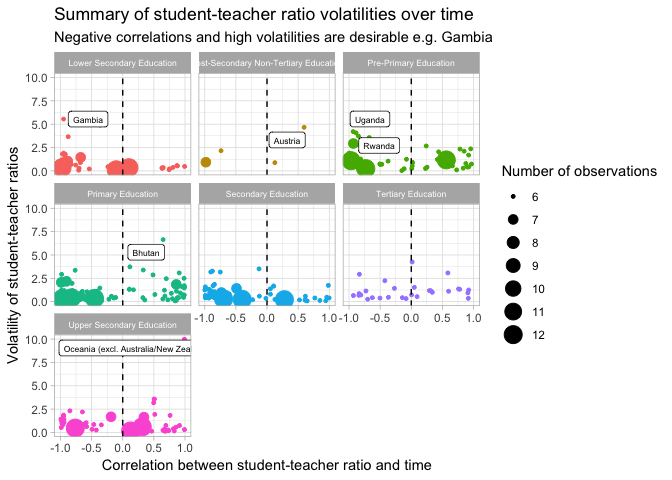
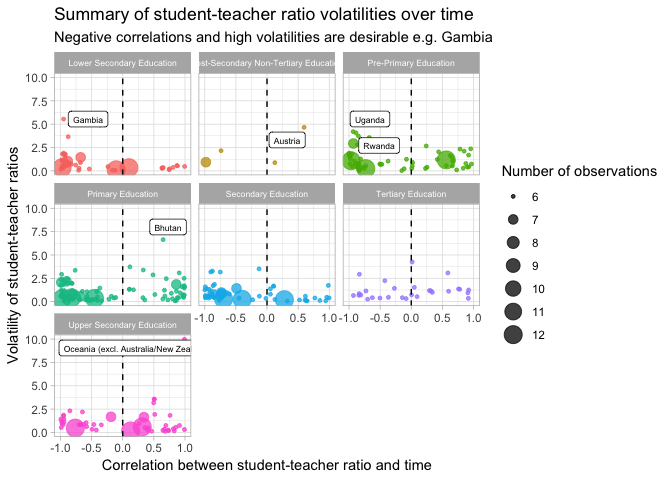
Final draft of the student-teacher ratio analysis.

diff --git a/Teacher-Student Analysis/teacher-student-analysis.md b/Teacher-Student Analysis/teacher-student-analysis.md
@@ -6,15 +6,18 @@ Johnny Breen
 Introduction
 ============
 
-In this segment we perform a brief analysis of data on student-teacher ratios across countries worldwide.
+In this segment we perform a brief analysis of data on student-teacher ratios across countries worldwide - the data is from the [tidytuesday](https://github.com/rfordatascience/tidytuesday/blob/master/data/2019/2019-05-07/readme.md) segment on github.
+
+Limited by time constraints and actuarial exams, this is a relatively short post; however, it showcases some of the functional tools you can use in `purrr` to make your code more powerful.
 
 Data import
 ===========
 
-Let's read in the data from the github repo:
+Let's first read in the data from the github repo:
 
 ``` r
 library(tidyverse)
+library(ggrepel)
 theme_set(theme_light())
 # we use 'ts' to refer to 'teacher-student'
 ts_ratio_raw <- readr::read_csv("https://raw.githubusercontent.com/rfordatascience/tidytuesday/master/data/2019/2019-05-07/student_teacher_ratio.csv")
@@ -40,7 +43,7 @@ ts_ratio_raw
 Exploratory data analysis
 =========================
 
-First, let's have a little look at how many countries we are working with:
+First, let's have a little look at how many countries are contained in the dataset:
 
 ``` r
 ts_ratio_raw %>%
@@ -63,7 +66,7 @@ ts_ratio_raw %>%
     ## 10 Mexico                                        39
     ## # … with 222 more rows
 
-We have 232 'countries' represented - although as you can see some of these are not countries, for example 'World'. There's a bit too many values to represent on a graph but we can see that there is a wide variety of countries here.
+We have 232 'countries' represented - although as you can see some of these are not countries, for example 'World'.
 
 Next, let's have a look at the representation of different education levels:
 
@@ -79,9 +82,9 @@ ts_ratio_raw %>%
 
 ![](teacher-student-analysis_files/figure-markdown_github/unnamed-chunk-3-1.png)
 
-There appears to be a fairly even distribution of different education levels.
+There appears to be a fairly even distribution of different education levels which will be useful if we plan to use this variable as a graphical facetting feature.
 
-Let's have a little look at how the teacher-student ratios correlate (on a linear basis) with time. This will tell us which countries are showing the most consistent changes (good or bad) over time:
+Let's have a little look at how the teacher-student ratios correlate (on a linear basis) with time. This will tell us which countries are showing the most consistent changes (good or bad) over time - to do this, we fit a series of linear models to each country in the dataset using `map_*()` functions from the package `purrr`:
 
 ``` r
 fit_mod <- function(df, ord = 1) {
@@ -98,7 +101,7 @@ ts_ratio_rsq <- ts_ratio_raw %>%
          linear_mod_nobs = map_int(data, ~ nrow(.))) %>%
   arrange(desc(linear_mod_rsq))
 
-# top 15 r-squared
+# top 15 r-squared values
 ts_ratio_rsq %>%
   mutate(country = fct_reorder(country, linear_mod_rsq)) %>%
   top_n(15, linear_mod_rsq) %>%
@@ -141,7 +144,7 @@ Based on this, Hong Kong appears to be demonstrating a fairly consistent change 
 
 It is also key to note that the number of observations here does not necessarily reflect the number of years available because some countries have data on a greater number of education levels than others but as at the same year (for instance, primary and secondary education figures in 2012).
 
-We can improve on this. Perhaps a better way to represent the data above would be to plot the volatility of student-teacher ratios on the y axis and ratio-year correlations on the x axis. This gives way to a multi-classification of different countries - for instance, a country with a highly negative ratio-year correlation and a high volatility reflects rapid improvement (remember, we want the ratios to *decrease* over time so that teachers have less students to cater to):
+Perhaps a better way to represent the data above would be to plot the volatility of student-teacher ratios on the y axis and ratio-year correlations on the x axis. This gives way to a multi-classification of different countries - for instance, a country with a highly negative ratio-year correlation and a high volatility reflects rapid improvement (remember, ratios which *decrease* over time represent increasingly smaller student-teacher ratios so that teachers have less students to cater to):
 
 ``` r
 ts_ratio_corrs <- ts_ratio_raw %>%
@@ -150,11 +153,10 @@ ts_ratio_corrs <- ts_ratio_raw %>%
          volatility = map_dbl(data, ~ sd(.$student_ratio, na.rm = TRUE)),
          nobs = map_int(data, ~ nrow(.)))
 
-library(ggrepel)
 ts_ratio_corrs %>%
   filter(nobs > 5, !indicator %in% c("World")) %>% 
   ggplot(aes(x = linear_corr, y = volatility)) +
-  geom_point(aes(size = nobs, colour = indicator)) +
+  geom_point(aes(size = nobs, colour = indicator), alpha = 0.75) +
   geom_vline(xintercept = 0, linetype = "dashed") +
   geom_label_repel(data = . %>% filter(abs(linear_corr) > 0.5, volatility > 4.0),
              aes(label = country), size = 2.25) +
@@ -171,38 +173,48 @@ ts_ratio_corrs %>%
 
 ![](teacher-student-analysis_files/figure-markdown_github/unnamed-chunk-6-1.png)
 
-How is this ratio affected by government spending?
-==================================================
-
-One approach here is to extract all of the necessary covariates associated with student-teacher ratios and investigate which of them are statistically significant:
+Each point in the series of plots above represents a different country. I've higlighted countries which have a suitably high combination of high correlation and volaility. Notice how, for instance, Gambia has a relatively high volatility score as well as a highly negative correlation, suggesting that it is making more rapid improvements than other countries in the area of lower secondary education. This is unsurprisingly backed up by the underlying data:
 
 ``` r
-# read in government spending data - downloaded from the relevant source online
-ts_spend_raw <- read_csv("EDULIT_DS_19052019035546163.csv")
+ts_ratio_raw %>%
+  filter(country == "Gambia", indicator == "Lower Secondary Education") %>%
+  select(education_category = indicator, country, year, student_ratio)
 ```
 
-    ## Parsed with column specification:
-    ## cols(
-    ##   EDULIT_IND = col_character(),
-    ##   Indicator = col_character(),
-    ##   LOCATION = col_character(),
-    ##   Country = col_character(),
-    ##   TIME = col_integer(),
-    ##   Time = col_integer(),
-    ##   Value = col_double(),
-    ##   `Flag Codes` = col_character(),
-    ##   Flags = col_character()
-    ## )
+    ## # A tibble: 6 x 4
+    ##   education_category        country  year student_ratio
+    ##   <chr>                     <chr>   <int>         <dbl>
+    ## 1 Lower Secondary Education Gambia   2012          32.6
+    ## 2 Lower Secondary Education Gambia   2013          30.9
+    ## 3 Lower Secondary Education Gambia   2014          31.1
+    ## 4 Lower Secondary Education Gambia   2015          23.5
+    ## 5 Lower Secondary Education Gambia   2017          22.5
+    ## 6 Lower Secondary Education Gambia   2018          19.3
+
+The graphical plot also sheds light on poorly performing nations, such as Bhutan in the area of primary education where we can observe a visible increase in student-teacher ratios over time:
 
 ``` r
-ts_spend_clean <- ts_spend_raw %>%
-  transmute(indicator = str_remove(Indicator, "Government expenditure on "),
-                                             indicator = str_remove(indicator, ", US\\$ \\(millions\\)"),
-                                             indicator = str_to_title(indicator),
-            country_code = LOCATION,
-            year = Time,
-            spending_us_dollars = Value)
-
-ts_joined <- ts_ratio_raw %>%
-  left_join(ts_spend_clean, by = c("indicator", "country_code", "year"))
+ts_ratio_raw %>%
+  filter(country == "Bhutan", indicator == "Primary Education") %>%
+  select(education_category = indicator, country, year, student_ratio)
 ```
+
+    ## # A tibble: 6 x 4
+    ##   education_category country  year student_ratio
+    ##   <chr>              <chr>   <int>         <dbl>
+    ## 1 Primary Education  Bhutan   2012          24.0
+    ## 2 Primary Education  Bhutan   2013          28.7
+    ## 3 Primary Education  Bhutan   2014          40.3
+    ## 4 Primary Education  Bhutan   2015          40.0
+    ## 5 Primary Education  Bhutan   2016          38.0
+    ## 6 Primary Education  Bhutan   2017          34.6
+
+Conclusion
+==========
+
+In this extremely short segment we were able to:
+
+-   Identify a set of countries whose student-teacher ratio trajectories were broadly linear, thus identifying the consistently improving nations; and
+-   Identify which countries are improving fastest and which countries are travelling in the opposite direction
+
+The interested reader could easily augment this analysis by acquiring sovereign data and analysing it in conjunction with the student-teacher ratios presented above - for instance, are these ratios influenced by government spending? Or is there another factor at play here?
